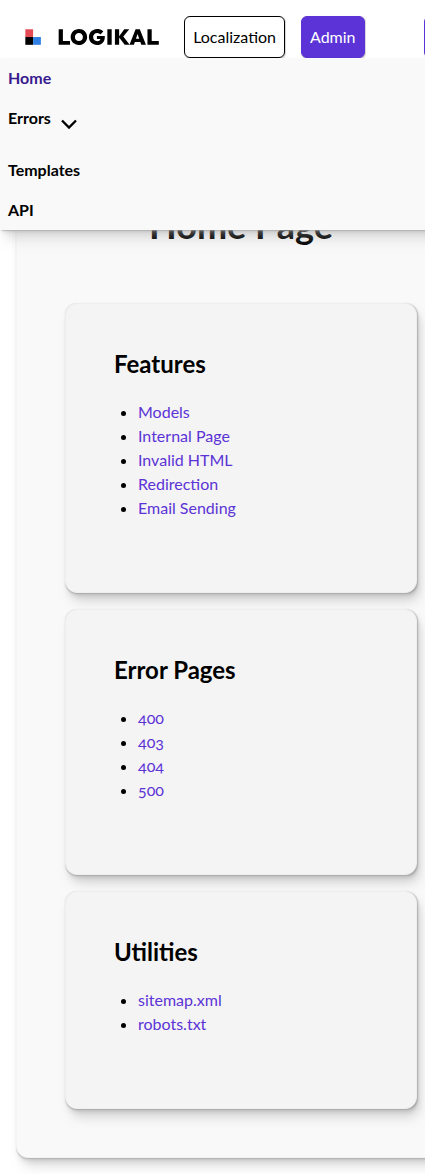
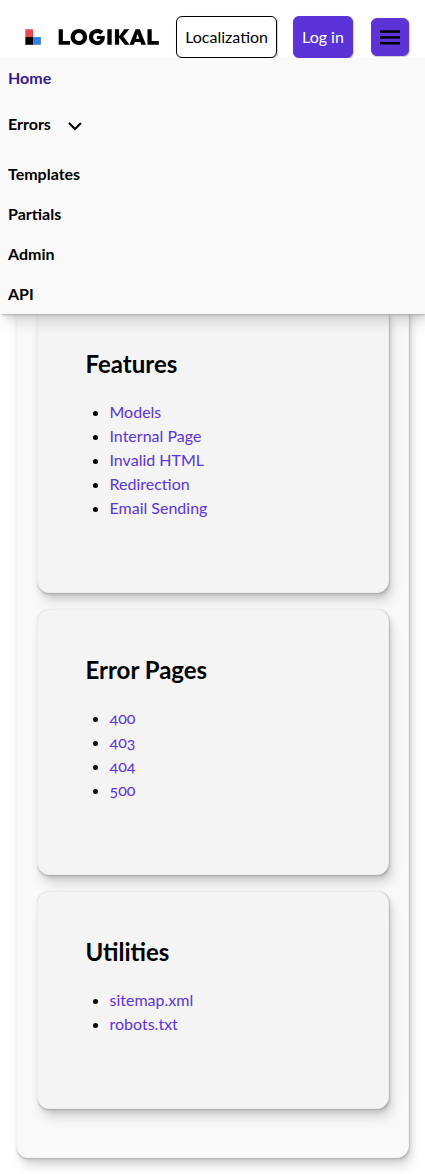
Fix mobile layout

diff --git a/django_logikal/static/django_logikal/css/commons.css b/django_logikal/static/django_logikal/css/commons.css
@@ -19,7 +19,10 @@ body {
   gap: var(--length-gap-group);
 
   /* Grid areas */
-  & > :is(header, main, aside, footer) { padding: var(--length-gap-group); }
+  & > :is(header, main, aside, footer) {
+    padding: var(--length-gap-group);
+    max-width: 100vw;
+  }
   & > header { grid-area: header; padding-block-end: 0; }
   & > main { grid-area: main; position: relative; }
   & > aside { grid-area: aside; padding-inline-start: 0; }

diff --git a/tests/dynamic_site/static/css/style.css b/tests/dynamic_site/static/css/style.css
@@ -6,4 +6,8 @@
   .mobile-menu-icon {
     display: block;
   }
+
+  nav {
+    gap: var(--length-gap-element);
+  }
 }